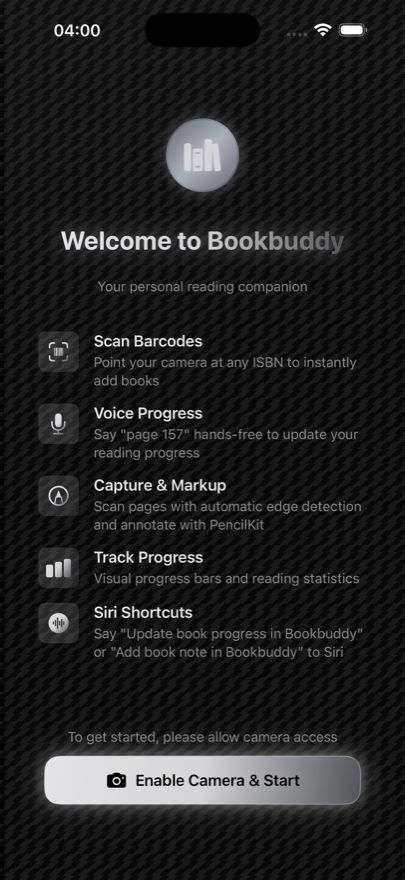
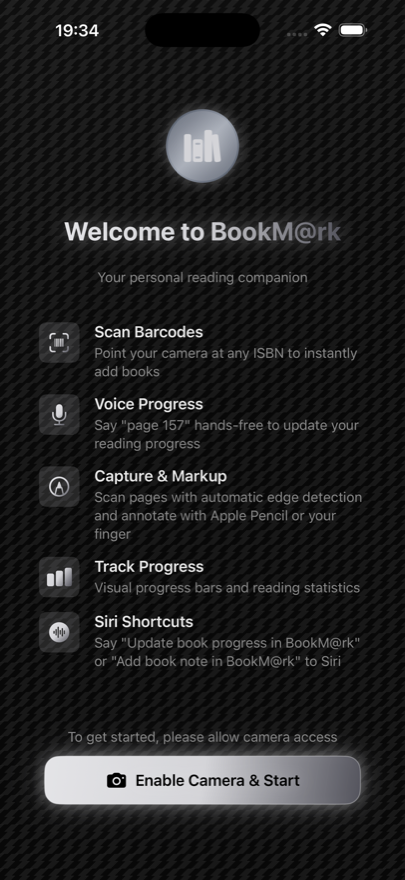
feat: Rename product to BookM@rk across the page
App Store name is BookM@rk (Bookbuddy was taken). Domain, repo, and asset
paths keep the old name. Welcome screenshot regenerated from the renamed
build; mailto subject percent-encodes the @.

diff --git a/index.html b/index.html
@@ -3,9 +3,9 @@
 <head>
   <meta charset="UTF-8">
   <meta name="viewport" content="width=device-width, initial-scale=1.0">
-  <title>Bookbuddy — Your Personal Book Library</title>
+  <title>BookM@rk — Your Personal Book Library</title>
   <meta name="description" content="Scan barcodes to add books instantly, track your reading progress by voice, and keep your entire library organized. Private by design — no account, no tracking.">
-  <meta property="og:title" content="Bookbuddy — Your Personal Book Library">
+  <meta property="og:title" content="BookM@rk — Your Personal Book Library">
   <meta property="og:description" content="Scan barcodes. Track progress by voice. Your entire book collection, beautifully organized — and it never leaves your device.">
   <meta property="og:image" content="https://bookbuddy.collapsingwavefunctions.com/assets/library.png">
   <meta property="og:type" content="website">
@@ -134,12 +134,12 @@
 <body>
 
   <header class="wrap">
-    <img class="app-icon" src="assets/icon.png" alt="Bookbuddy app icon">
-    <h1>Bookbuddy</h1>
+    <img class="app-icon" src="assets/icon.png" alt="BookM@rk app icon">
+    <h1>BookM@rk</h1>
     <p class="tagline">Your personal book library</p>
     <p class="sub">Scan barcodes to add books instantly, track your reading progress with your voice, and keep your entire collection organized in one beautiful app.</p>
     <div class="badge"><span>●</span>&nbsp; Coming soon to the App&nbsp;Store</div>
-    <img class="hero-shot" src="assets/library.png" alt="Bookbuddy library screen showing books with reading status and progress">
+    <img class="hero-shot" src="assets/library.png" alt="BookM@rk library screen showing books with reading status and progress">
   </header>
 
   <section class="wrap" id="features">
@@ -148,12 +148,12 @@
       <div class="feature">
         <div class="glyph">📷</div>
         <h3>Instant Book Scanning</h3>
-        <p>Point your camera at any book's barcode and Bookbuddy fetches the title, author, cover, and details automatically. No typing required.</p>
+        <p>Point your camera at any book's barcode and BookM@rk fetches the title, author, cover, and details automatically. No typing required.</p>
       </div>
       <div class="feature">
         <div class="glyph">🎙️</div>
         <h3>Voice-Enabled Progress</h3>
-        <p>Update your reading progress hands-free. Just say "page 150" and Bookbuddy records it — perfect for when you don't want to put the book down.</p>
+        <p>Update your reading progress hands-free. Just say "page 150" and BookM@rk records it — perfect for when you don't want to put the book down.</p>
       </div>
       <div class="feature">
         <div class="glyph">🗣️</div>
@@ -182,15 +182,15 @@
     <h2>Designed dark. Built for readers.</h2>
     <div class="shots">
       <figure>
-        <img src="assets/welcome.png" alt="Bookbuddy welcome screen listing key features">
+        <img src="assets/welcome.png" alt="BookM@rk welcome screen listing key features">
         <figcaption>A 30-second welcome</figcaption>
       </figure>
       <figure>
-        <img src="assets/library.png" alt="Bookbuddy library with search and reading progress">
+        <img src="assets/library.png" alt="BookM@rk library with search and reading progress">
         <figcaption>Your library, searchable</figcaption>
       </figure>
       <figure>
-        <img class="wide" src="assets/ipad.png" alt="Bookbuddy running on iPad Pro">
+        <img class="wide" src="assets/ipad.png" alt="BookM@rk running on iPad Pro">
         <figcaption>At home on iPad too</figcaption>
       </figure>
     </div>
@@ -198,20 +198,20 @@
 
   <section class="privacy">
     <div class="wrap">
-      <p><strong>Your data stays yours.</strong> Bookbuddy collects nothing and tracks nothing. Book details come from free, public sources — Open Library, Google Books, openBD, and Crossref — and your library never leaves your device.</p>
+      <p><strong>Your data stays yours.</strong> BookM@rk collects nothing and tracks nothing. Book details come from free, public sources — Open Library, Google Books, openBD, and Crossref — and your library never leaves your device.</p>
     </div>
   </section>
 
   <section class="wrap support" id="support">
     <h2>Support</h2>
-    <p>Questions, problems, or ideas for Bookbuddy? Get in touch and a human will reply.</p>
-    <a class="btn btn-primary" href="mailto:[email redacted]?subject=Bookbuddy%20support">Email support</a>
+    <p>Questions, problems, or ideas for BookM@rk? Get in touch and a human will reply.</p>
+    <a class="btn btn-primary" href="mailto:[email redacted]?subject=BookM%40rk%20support">Email support</a>
     <a class="btn btn-ghost" href="https://collapsingwavefunctions.com/privacy">Privacy policy</a>
   </section>
 
   <footer>
     <div class="wrap">
-      © 2026 <a href="https://collapsingwavefunctions.com">Collapsing Wave Functions</a> · Bookbuddy for iOS &amp; iPadOS
+      © 2026 <a href="https://collapsingwavefunctions.com">Collapsing Wave Functions</a> · BookM@rk for iOS &amp; iPadOS
     </div>
   </footer>
 

diff --git a/README.md b/README.md
@@ -1,6 +1,6 @@
 # bookbuddy-site
 
-Marketing one-pager and App Store support page for [Bookbuddy](https://github.com/elecumbelly/Bookbuddy), the iOS book-library app.
+Marketing one-pager and App Store support page for [BookM@rk](https://github.com/elecumbelly/Bookbuddy), the iOS book-library app (App Store name **BookM@rk**; internal project name Bookbuddy — repo, domain, and paths keep the old name).
 
 - **Production:** https://bookbuddy.collapsingwavefunctions.com (Vercel)
 - Static HTML/CSS, no build step — edit `index.html`, push to `main`, Vercel deploys.